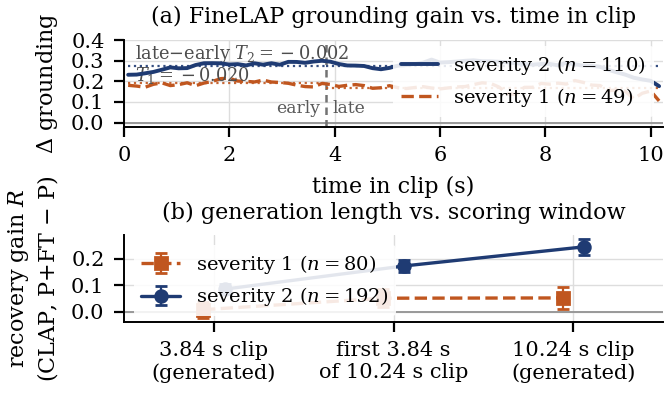
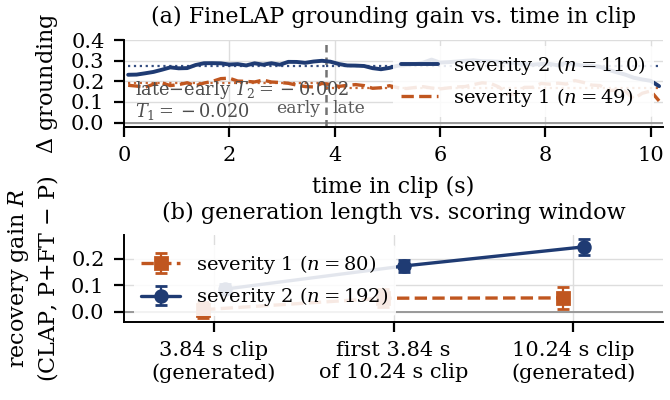
Fig. 2(a): 'late-early T' annotation placed bottom-left (the only free corner at the reduced panel height); PDF/zip refreshed (no text or number change)

diff --git a/scripts/research/paper_figs/make_draft3_figs.py b/scripts/research/paper_figs/make_draft3_figs.py
@@ -38,8 +38,8 @@ def draw_finelap_fixed(ax, title=None):
             # at the reduced panel height
             txt, fs, col = t.get_text(), t.get_fontsize(), t.get_color()
             t.remove()
-            ax.text(0.02, 0.96, txt.replace("; ", "\n"), transform=ax.transAxes, fontsize=fs, color=col,
-                    ha="left", va="top", linespacing=1.0)
+            ax.text(0.02, 0.06, txt.replace("; ", "\n"), transform=ax.transAxes, fontsize=fs, color=col,
+                    ha="left", va="bottom", linespacing=1.0)   # bottom-left is the only free corner
     # A6: keep the early/late labels near the zero line; at the top they ran into the
     # "late-early T" annotation (which stays at the top right).
     ax.text(3.84 - 0.12, 0.028, "early", fontsize=6.2, color="0.35", va="bottom", ha="right")
